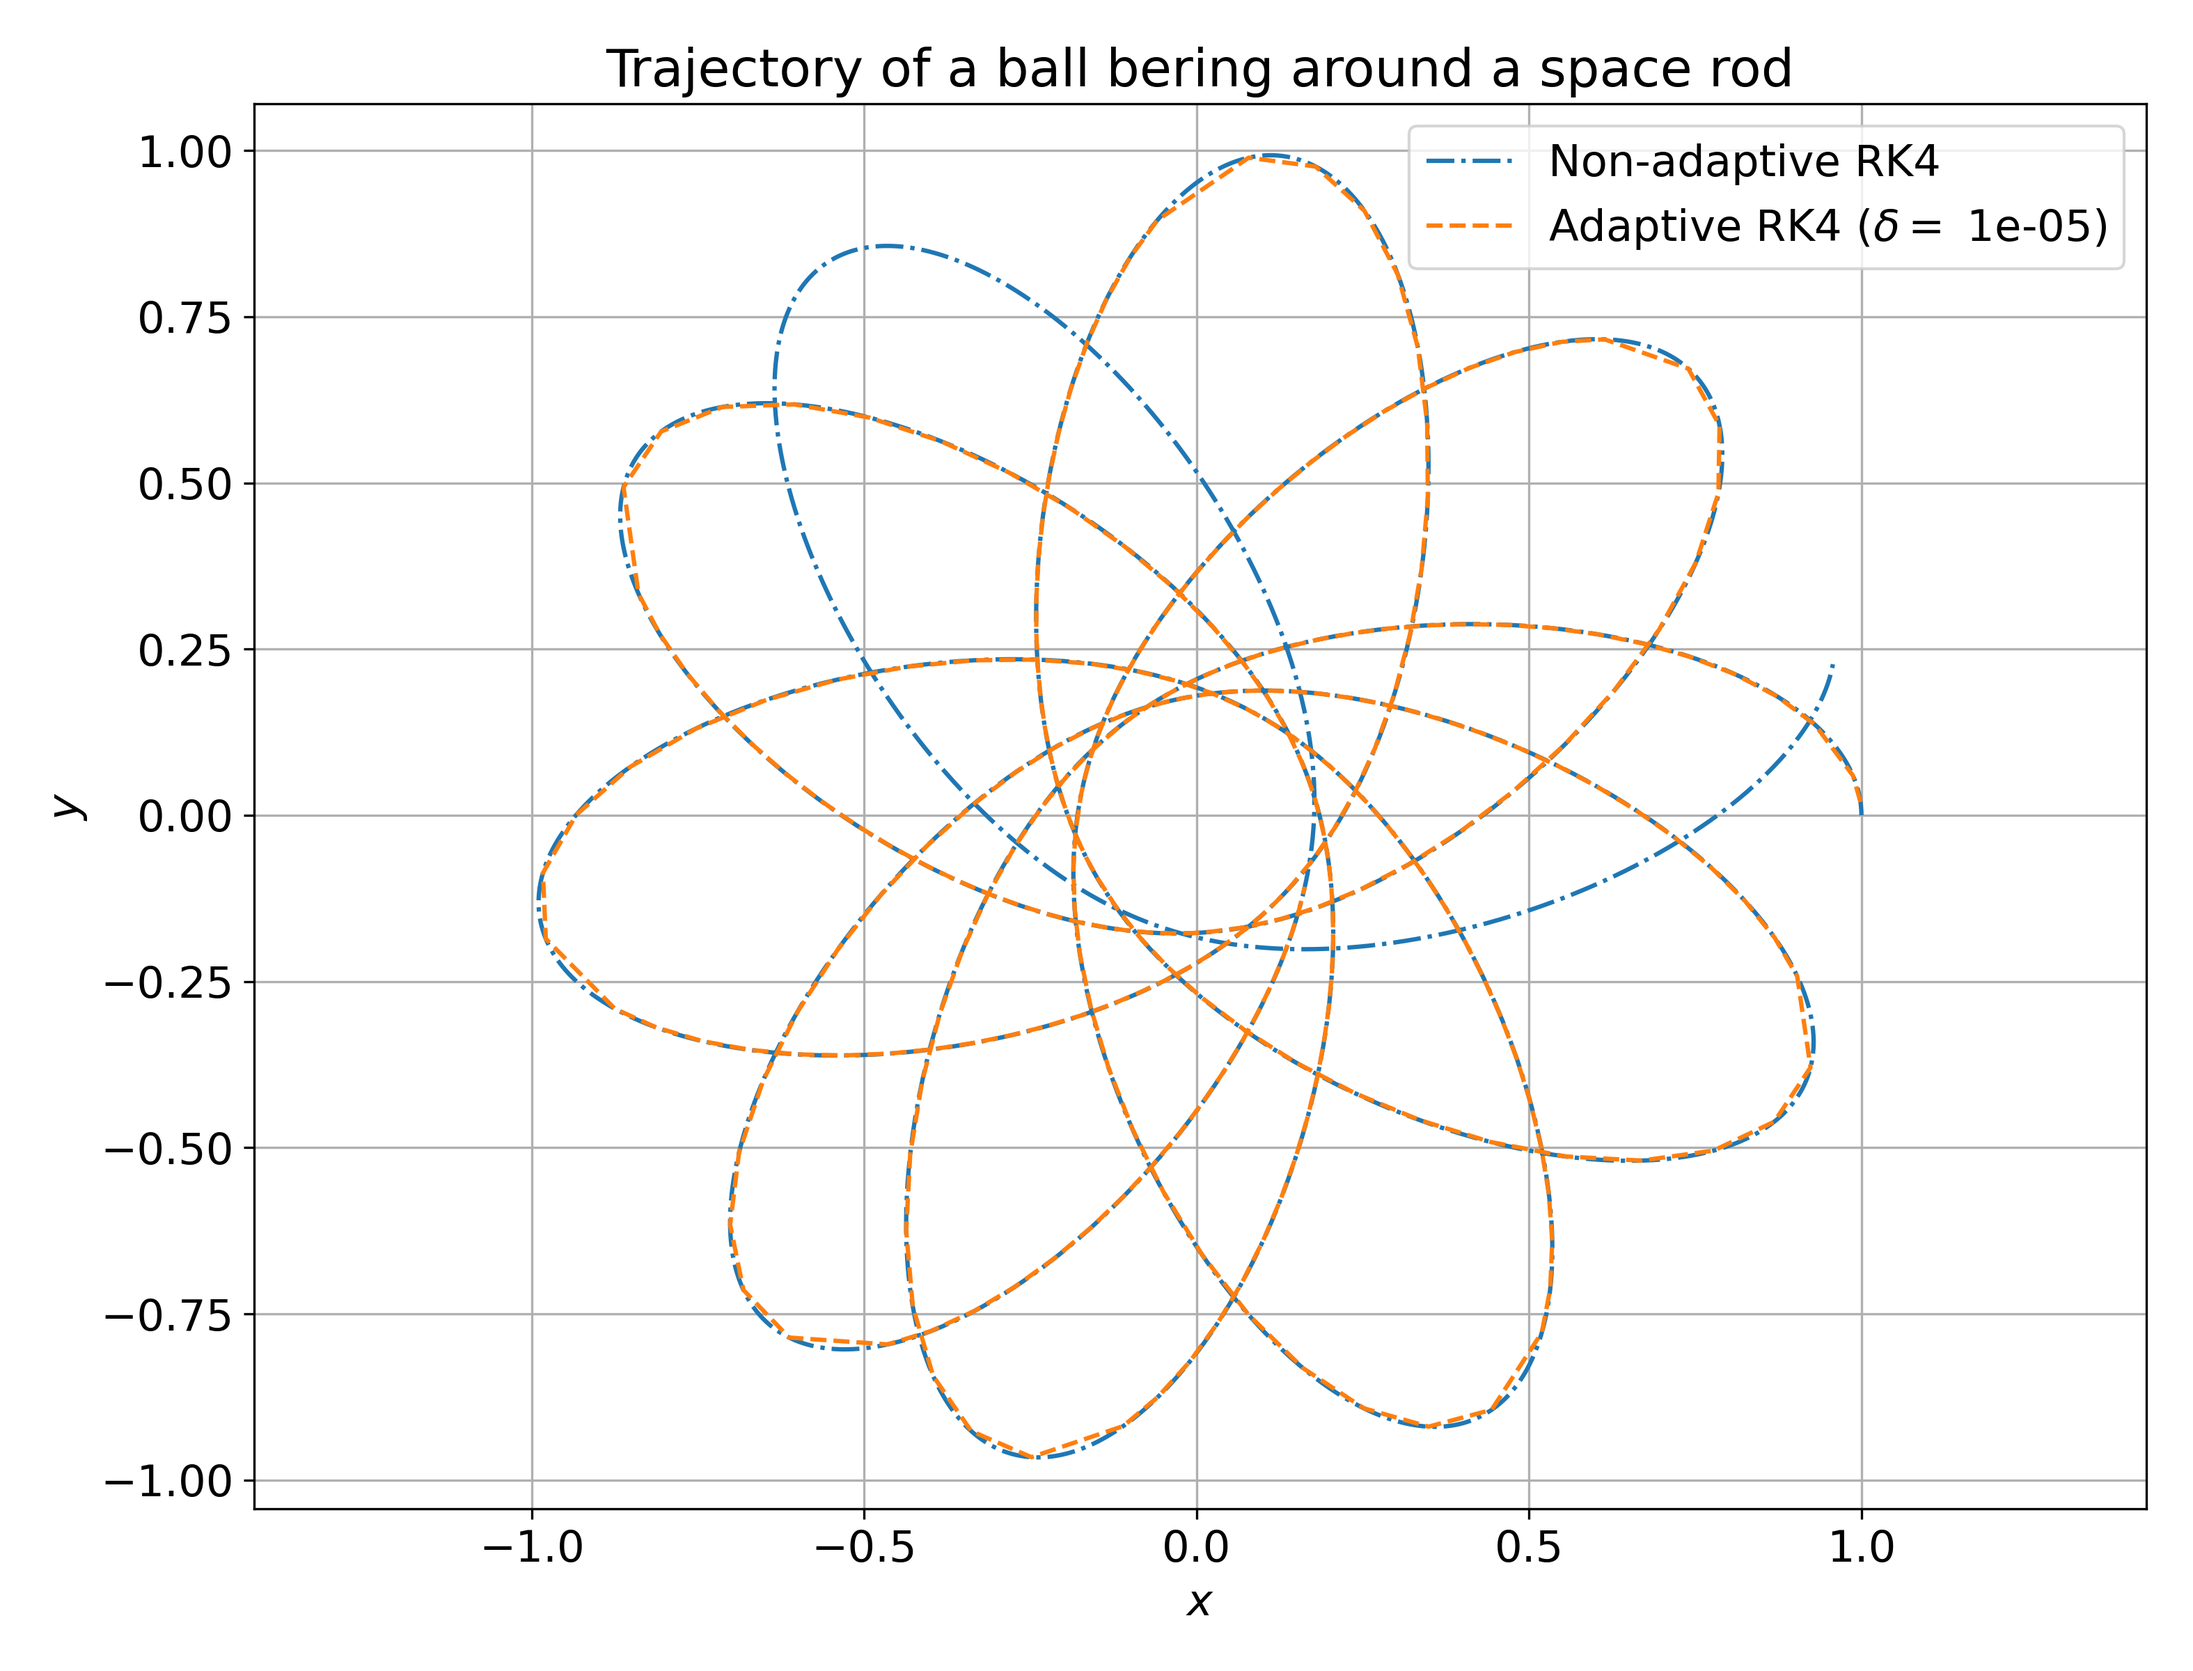
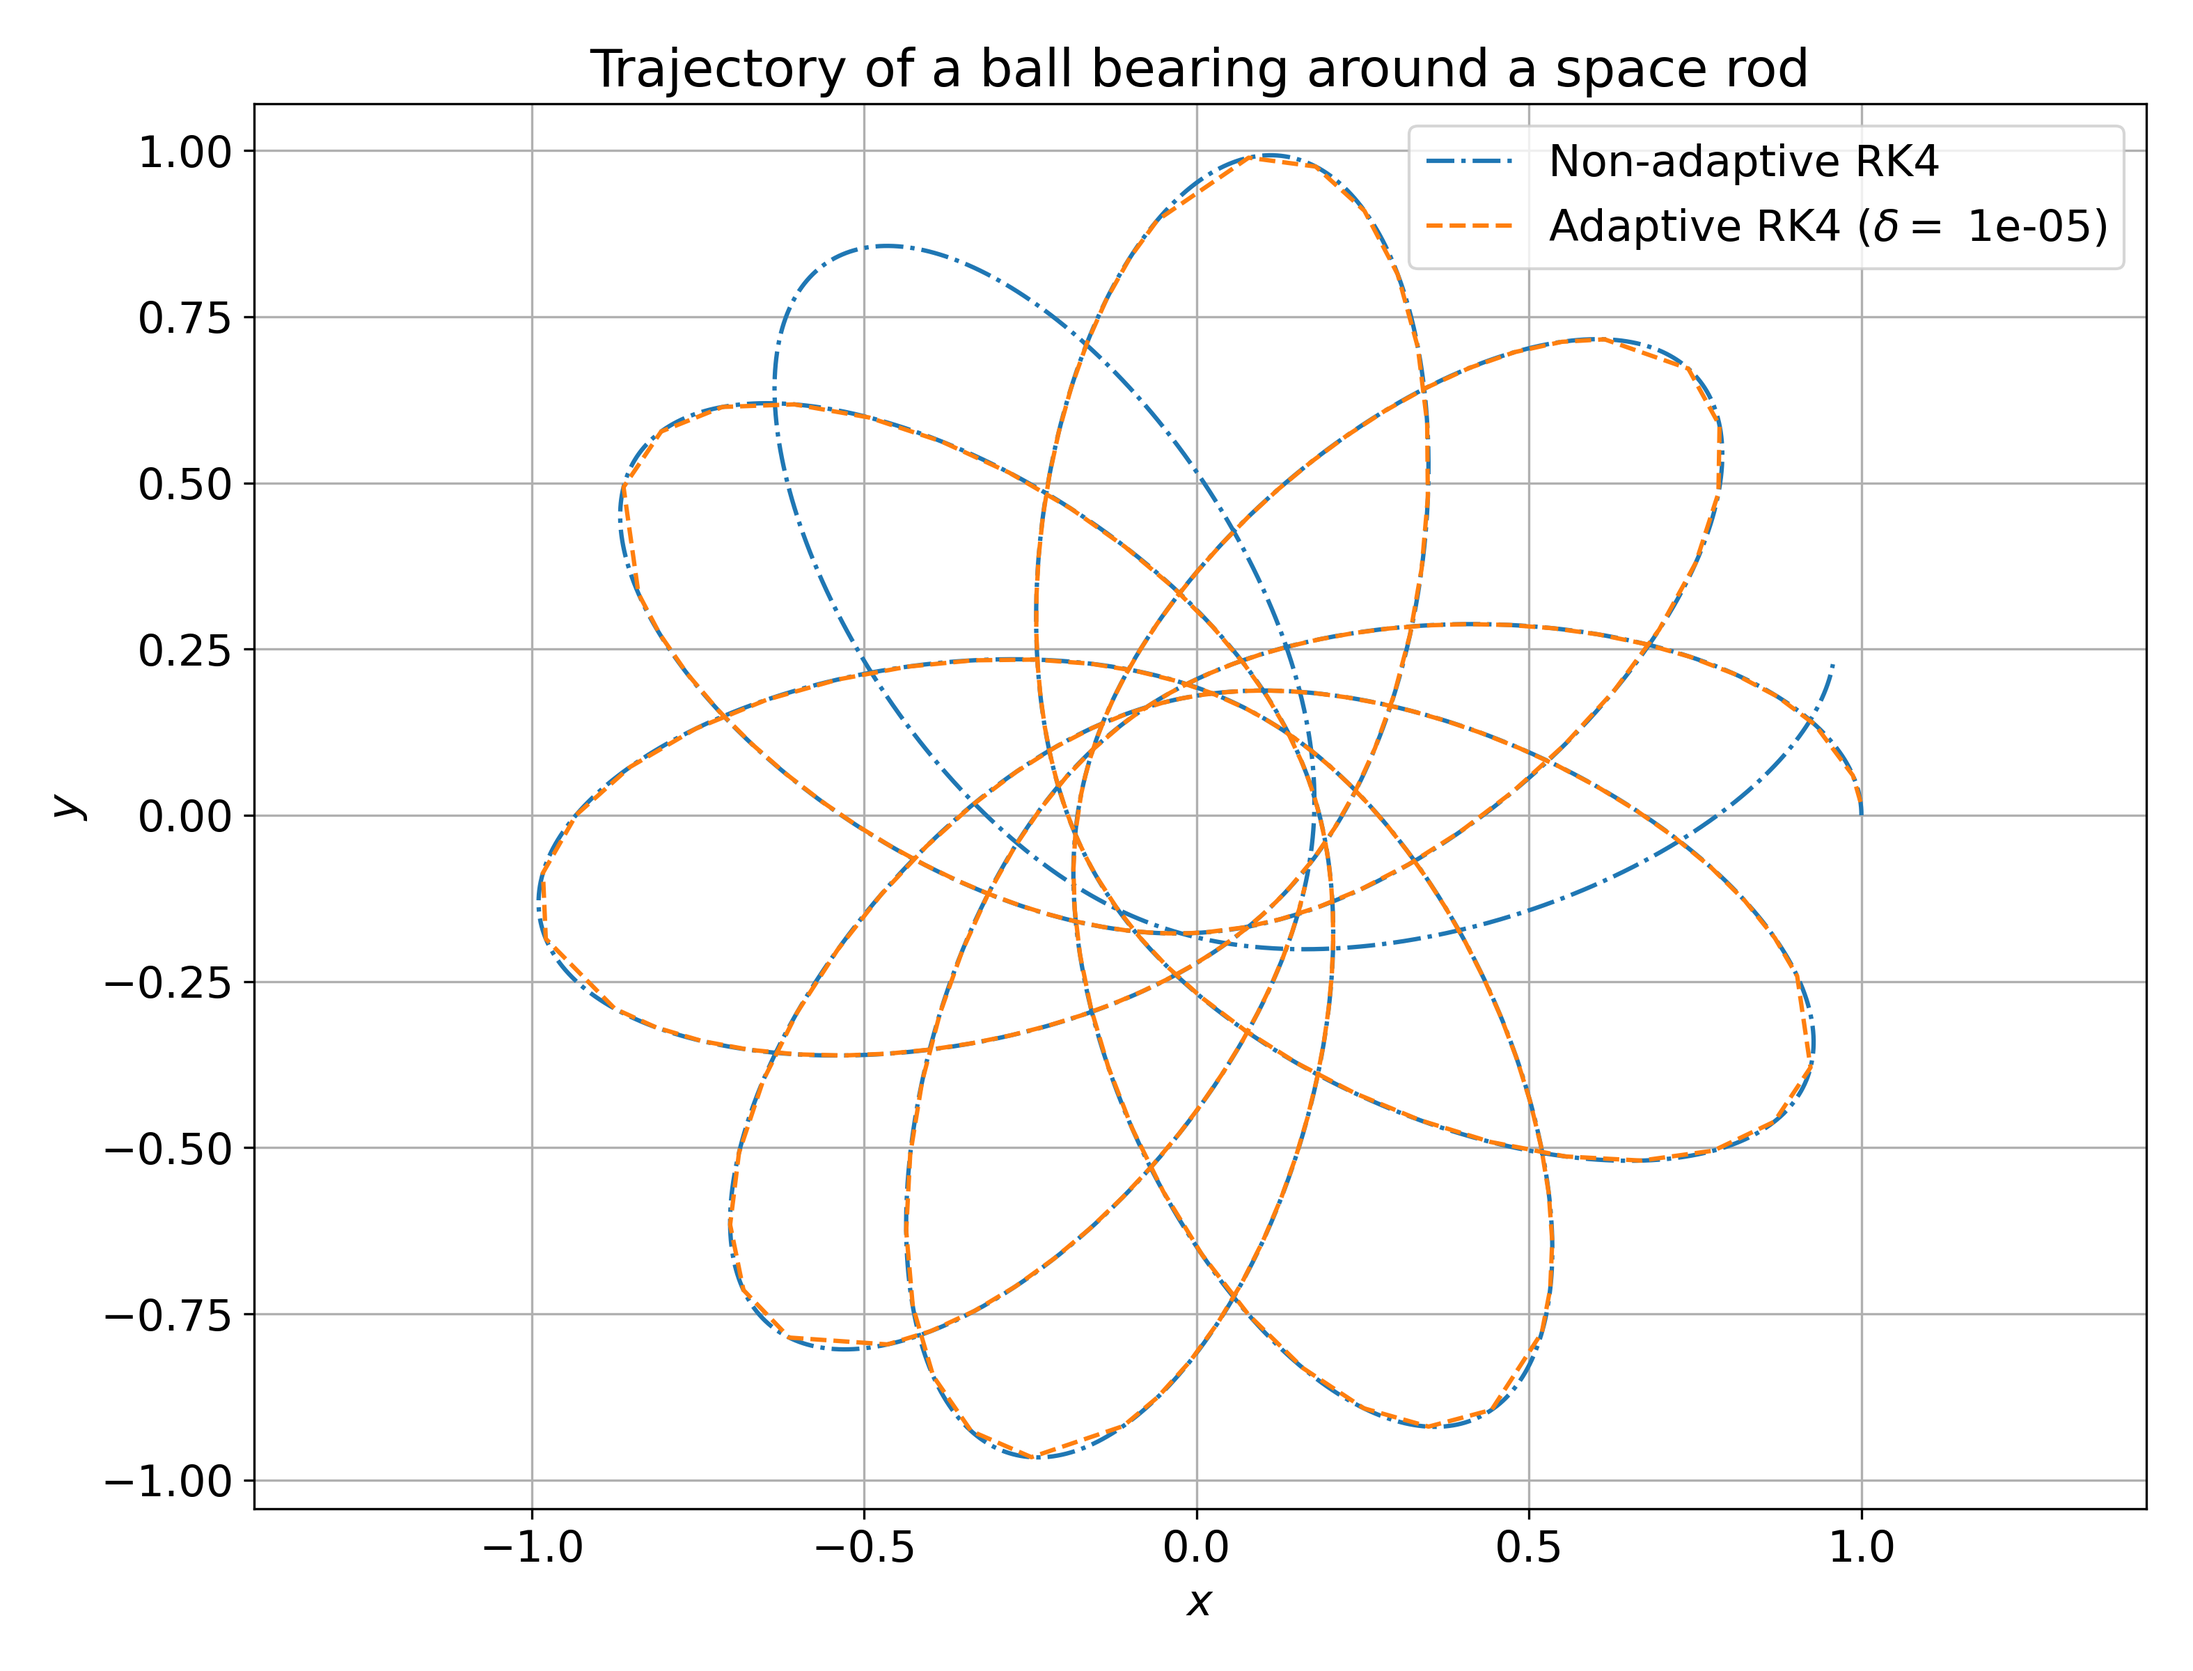
Fixed typo.

Changed region(s): [[0.28, 0.0312, 0.84, 0.0625]]

diff --git a/Week07/Lab07_Q01.py b/Week07/Lab07_Q01.py
@@ -263,7 +263,7 @@ plt.plot(adaptive_conditions[:, 0], adaptive_conditions[:, 2], '--', label=f'Ada
 plt.xlabel('$x$')
 plt.ylabel('$y$')
 # Note: title is the same as from Newman_8-8.py by Nico Grisouard.
-plt.title('Trajectory of a ball bering around a space rod')
+plt.title('Trajectory of a ball bearing around a space rod')
 plt.axis('equal')
 plt.grid()
 plt.legend()
